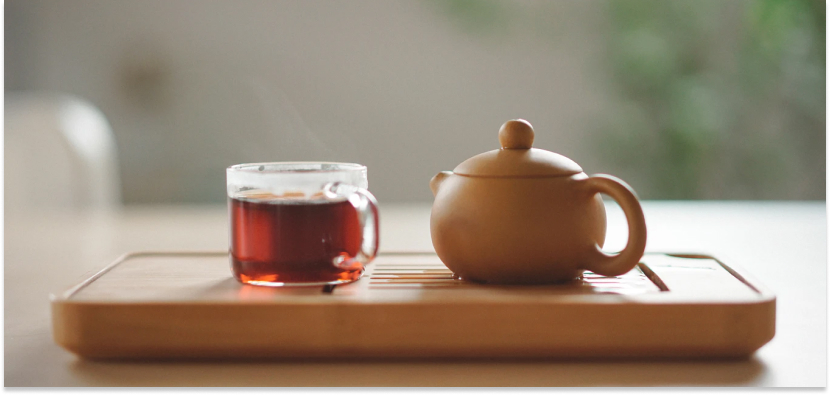
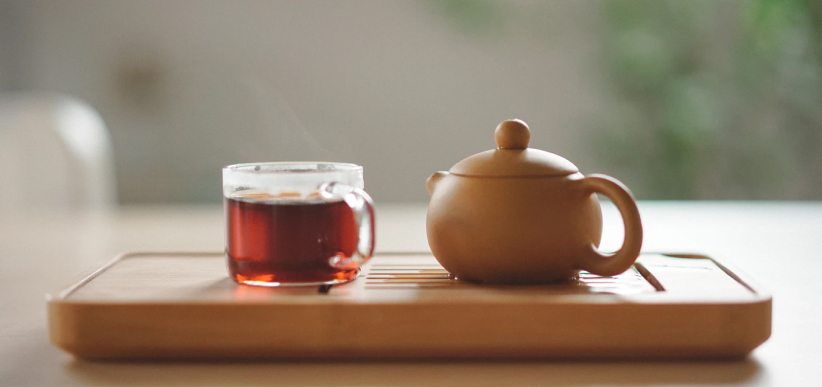
signup section implemented

Changed region(s): [[0.0, 0.0, 1.0, 1.0], [0.0912, 0.2481, 0.1521, 0.3411], [0.5779, 0.2791, 0.6387, 0.3411]]

diff --git a/src/components/SignUp.module.css b/src/components/SignUp.module.css
@@ -1,0 +1,88 @@
+
+.signup {
+    width: 100%;
+    height: 387px;
+    background-color: #495664;
+}
+
+.signupText {
+    margin: 0 auto;
+    width: 375px;
+    height: 100%;
+    display: flex;
+    flex-direction: column;
+    align-items: center;
+}
+
+.heading {
+    font-weight: 500;
+    text-align: center;
+    font-size: 40px;
+    line-height: 60px;
+    color: #ffffff;
+    margin-bottom: 15px;
+}
+
+.info {
+    font-weight: 400;
+    font-size: 18px;
+    line-height: 36px;
+    text-align: center;
+    width: 274px;
+    color: #ffffff;
+    margin-bottom: 52px;
+}
+
+.cta {
+    width: 193px;
+    height: 42px;
+    background-color: #0B1113;
+    border: 0;
+    color: #ffffff;
+    font-weight: 500;
+    font-size: 16px;
+    line-height: 24px;
+}
+
+.teaCupContainer {
+    width: 100vw;
+    height: 112px;
+    background-color: rgba(11, 17, 19, 0.36);
+}
+
+.teaCup {
+    width: 100%;
+    height: 100%;
+}
+
+@media (min-width: 481px) {
+    .teaCupContainer {
+        height: 300px;
+    }
+}
+
+@media (min-width: 1130px) {
+    .container {
+        display: flex;
+    }
+
+    .signup {
+        width: 43%;
+    }
+
+    .teaCupContainer {
+        width: 57%;
+        height: 387px;
+    }
+    .signupText {
+        width: 480px;
+        align-items:flex-start
+    }
+
+    .heading,
+    .info {
+        text-align: left;
+        width: 100%;
+    }
+
+}

diff --git a/src/components/SignUp.js b/src/components/SignUp.js
@@ -1,0 +1,34 @@
+import React from 'react'
+import classes from "./SignUp.module.css"
+import ctaTeaCup from "../assets/cta_tea_cup_desktop.jpg"
+
+const SignUp = () => {
+  return (
+    <footer className={classes.container}>
+
+        {/* Signup */}
+        <div className={classes.signup}>
+            <div className={classes.signupText}>
+
+                {/* Heading */}
+                <h3 className={classes.heading}>SIGN UP</h3>
+
+                {/* Info */}
+                <p className={classes.info}>
+                    Get the best tea experience you'll  ever taste right at your door each month
+                </p>
+
+                {/* CTA */}
+                <button type='button' className={classes.cta}>Sign up</button>
+            </div>
+        </div>
+
+        {/* Tea cup image */}
+       <div className={classes.teaCupContainer}>
+            <img className={classes.teaCup} src={ctaTeaCup} alt="tea cup filled with tea and clay pot of tea on wooden table"/>
+       </div>
+    </footer>
+  )
+}
+
+export default SignUp;

diff --git a/src/App.js b/src/App.js
@@ -2,6 +2,7 @@ import classes from './App.module.css';
 import NavBar from './components/UI/NavBar';
 import Hero from './components/Hero';
 import Services from './components/Services';
+import SignUp from './components/SignUp';
 
 function App() {
   return (
@@ -9,6 +10,7 @@ function App() {
       <NavBar />
       <Hero />
       <Services />
+      <SignUp />
     </div>
   );
 }

diff --git a/src/components/Services.module.css b/src/components/Services.module.css
@@ -1,6 +1,5 @@
 .container {
-    height: 1228px;
-    border: 1px solid black;
+    max-height: 1228px;
     padding-top: 240px;
     display: flex;
     flex-direction: column;
